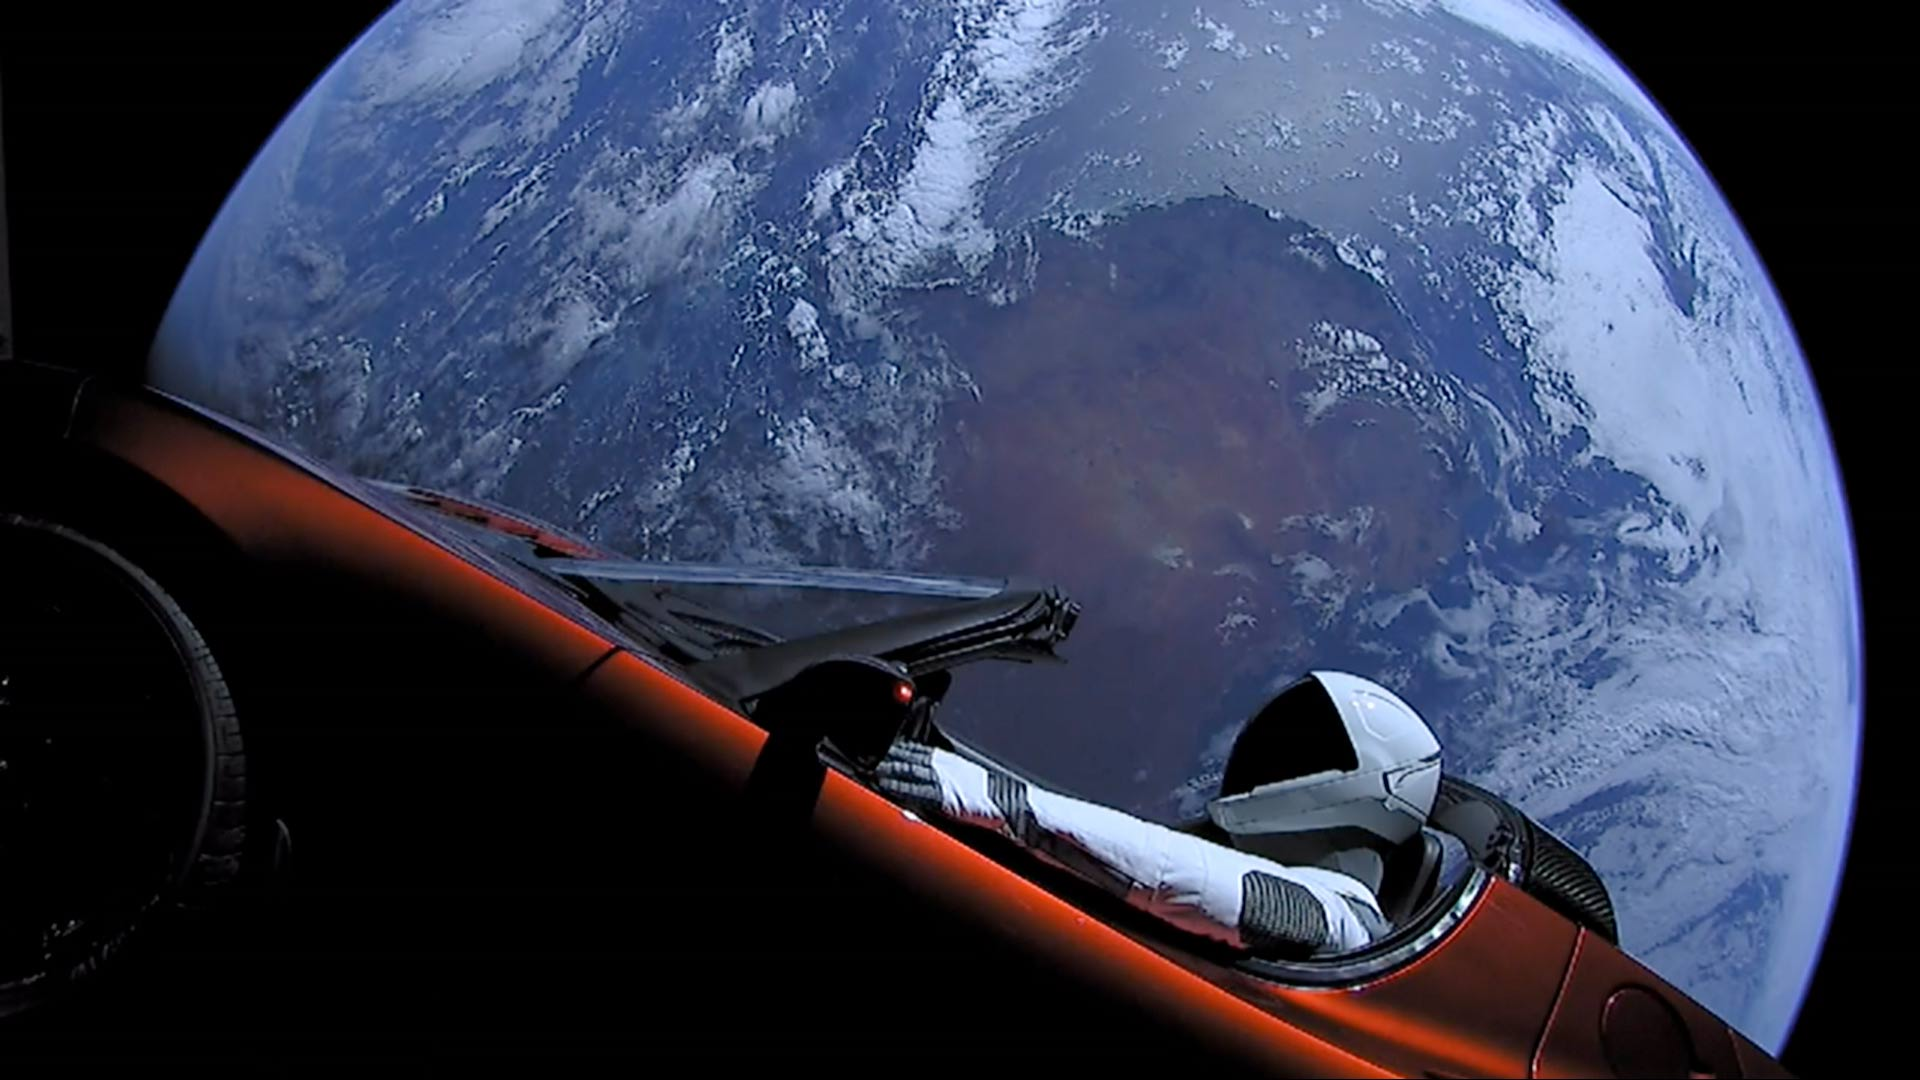
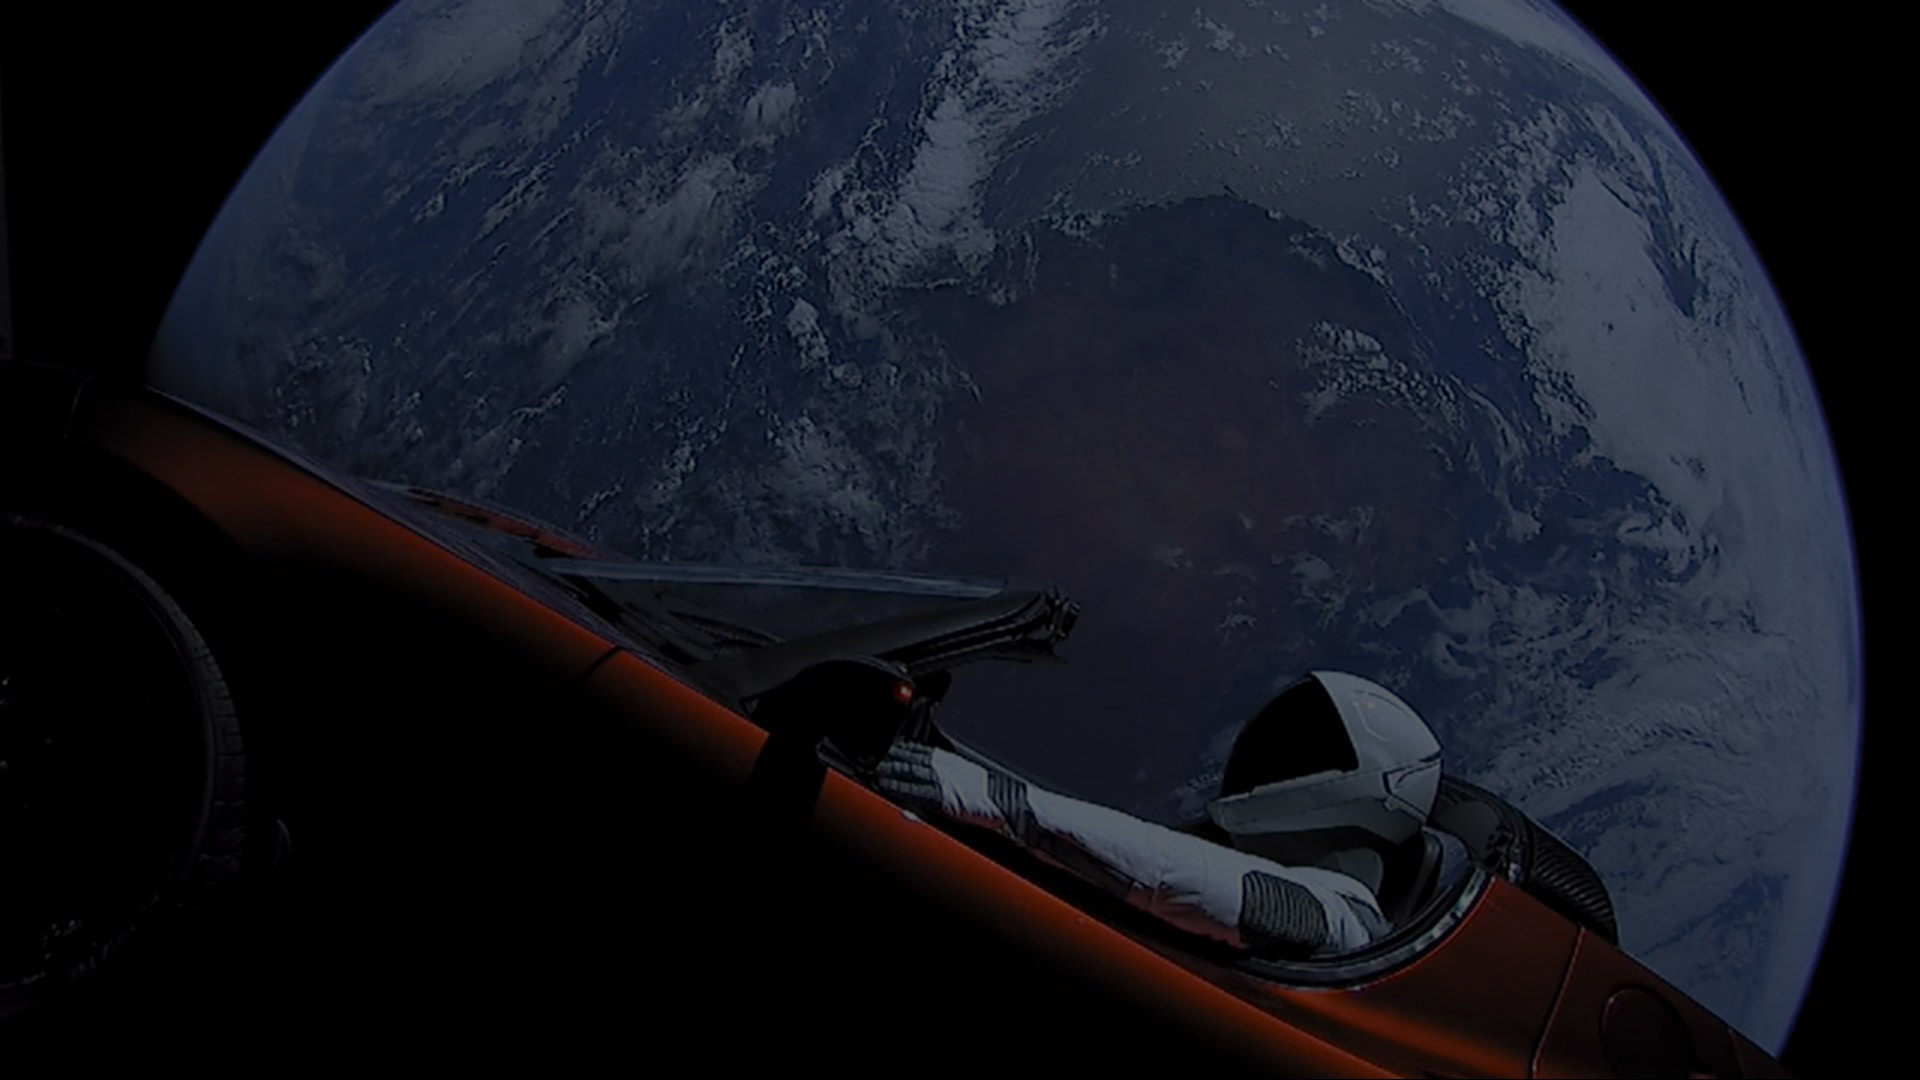
site build

diff --git a/css/style.css b/css/style.css
@@ -4,6 +4,10 @@ body{
 
 
 /*----navigation----*/
+div#collapsedNavbar{
+	width: 150px;
+}
+
 .navbar{
 	background-color: transparent !important;
 	color: black;
@@ -25,10 +29,12 @@ ul.navbar-nav{
 a.nav-link{
 	background-color: #1CA2F7;
 	width: 150px;
-	margin: 0.2em;
+	margin: 0.2em 0 0.2em 0;
 	padding: 1em;
 	text-align: center; 
+	border: 4px solid white;
 }
+
 
 #nav-toggle { cursor: pointer; padding: 10px 35px 16px 0px; }
 #nav-toggle span, #nav-toggle span:before, #nav-toggle span:after {
@@ -66,6 +72,10 @@ a.nav-link{
 
 #fp-nav ul li a span, .fp-slidesNav ul li a span{
 	background-color: white;
+}
+
+.underlined{
+	text-decoration: underline;
 }
 
 /*----sections----*/
@@ -140,6 +150,7 @@ div#fp-nav.right{
 	max-height: 100%;
 	overflow: hidden;
 	margin-bottom: 15px;
+	background-color: rgba(0,0,0,0.5);
 }
 
 
@@ -240,4 +251,36 @@ ol{
 .inlineValidation{
 	display: none;
 	color: red;
+}
+
+
+/*----images----*/
+#home{
+	background-image: url(../images/photos/galaxy.jpg);
+	background-size: cover;
+	background-repeat: no-repeat;
+}
+
+#spacex{
+	background-image: url(../images/photos/galaxy.jpg);
+	background-size: cover;
+	background-repeat: no-repeat;
+}
+
+#launch{
+	background-image: url(../images/photos/galaxy.jpg);
+	background-size: cover;
+	background-repeat: no-repeat;
+}
+
+#iss{
+	background-image: url(../images/photos/galaxy.jpg);
+	background-size: cover;
+	background-repeat: no-repeat;
+}
+
+#contact{
+	background-image: url(../images/photos/galaxy.jpg);
+	background-size: cover;
+	background-repeat: no-repeat;
 }

diff --git a/js/script.js b/js/script.js
@@ -17,12 +17,14 @@ $(document).ready(function() {
 	});
 });
 
+
 //rotate plus to x and display none / block on launch dates content
 $(document).on('click','.button', function(e){
    	e.preventDefault();
 	$(this).toggleClass("rotate");
    	$(this).next('.info-expanded').toggle(400);
 });
+
 
 //dynamicly set active navigation based on changing url
 $(window).on('hashchange', function(e){
@@ -65,8 +67,9 @@ $(window).on('hashchange', function(e){
 
 function setActive(active){
 	$('li.nav-item.active').attr('class', 'nav-item');
-	$(active).attr('class', 'nav-item active')
+	$(active).attr('class', 'nav-item active underlined')
 }
+
 
 //Fetch rocket data from API
 document.getElementById("fhInfoButton").addEventListener("click", function(){
@@ -77,6 +80,7 @@ document.getElementById("fhInfoButton").addEventListener("click", function(){
 		})
 		.catch(err => console.log(err))
 });
+
 
 //falcon heavy API > DOM
 function falconHeavyInfo(result){
@@ -141,6 +145,7 @@ function falconHeavyInfo(result){
 	
 	console.log(result);
 }
+
 
 //fetch rocket data from API
 document.getElementById("bfrInfoButton").addEventListener("click", function(){

diff --git a/index.html b/index.html
@@ -26,7 +26,7 @@
 				
 				<div class="navbar-collapse collapse" id="collapsedNavbar">
 					<ul class="navbar-nav">
-						<li id="pageOne" class="nav-item active">
+						<li id="pageOne" class="nav-item active underlined">
 							<a class="nav-link" href="#firstPage">HOME</a>
 						</li>
 						<li id="pageTwo" class="nav-item">

diff --git a/css/media-queries.css b/css/media-queries.css
@@ -69,6 +69,17 @@
 	}
 }
 
+@media only screen and (max-width: 400px) {
+	a.nav-link{
+		width: 100%;
+	}
+	
+	#collapsedNavbar{
+		margin-right: 0.5em;
+		padding: 0;
+	}
+}
+
 @media only screen and (max-width: 320px) {
 	h1{
 		font-size: 1.5em;
